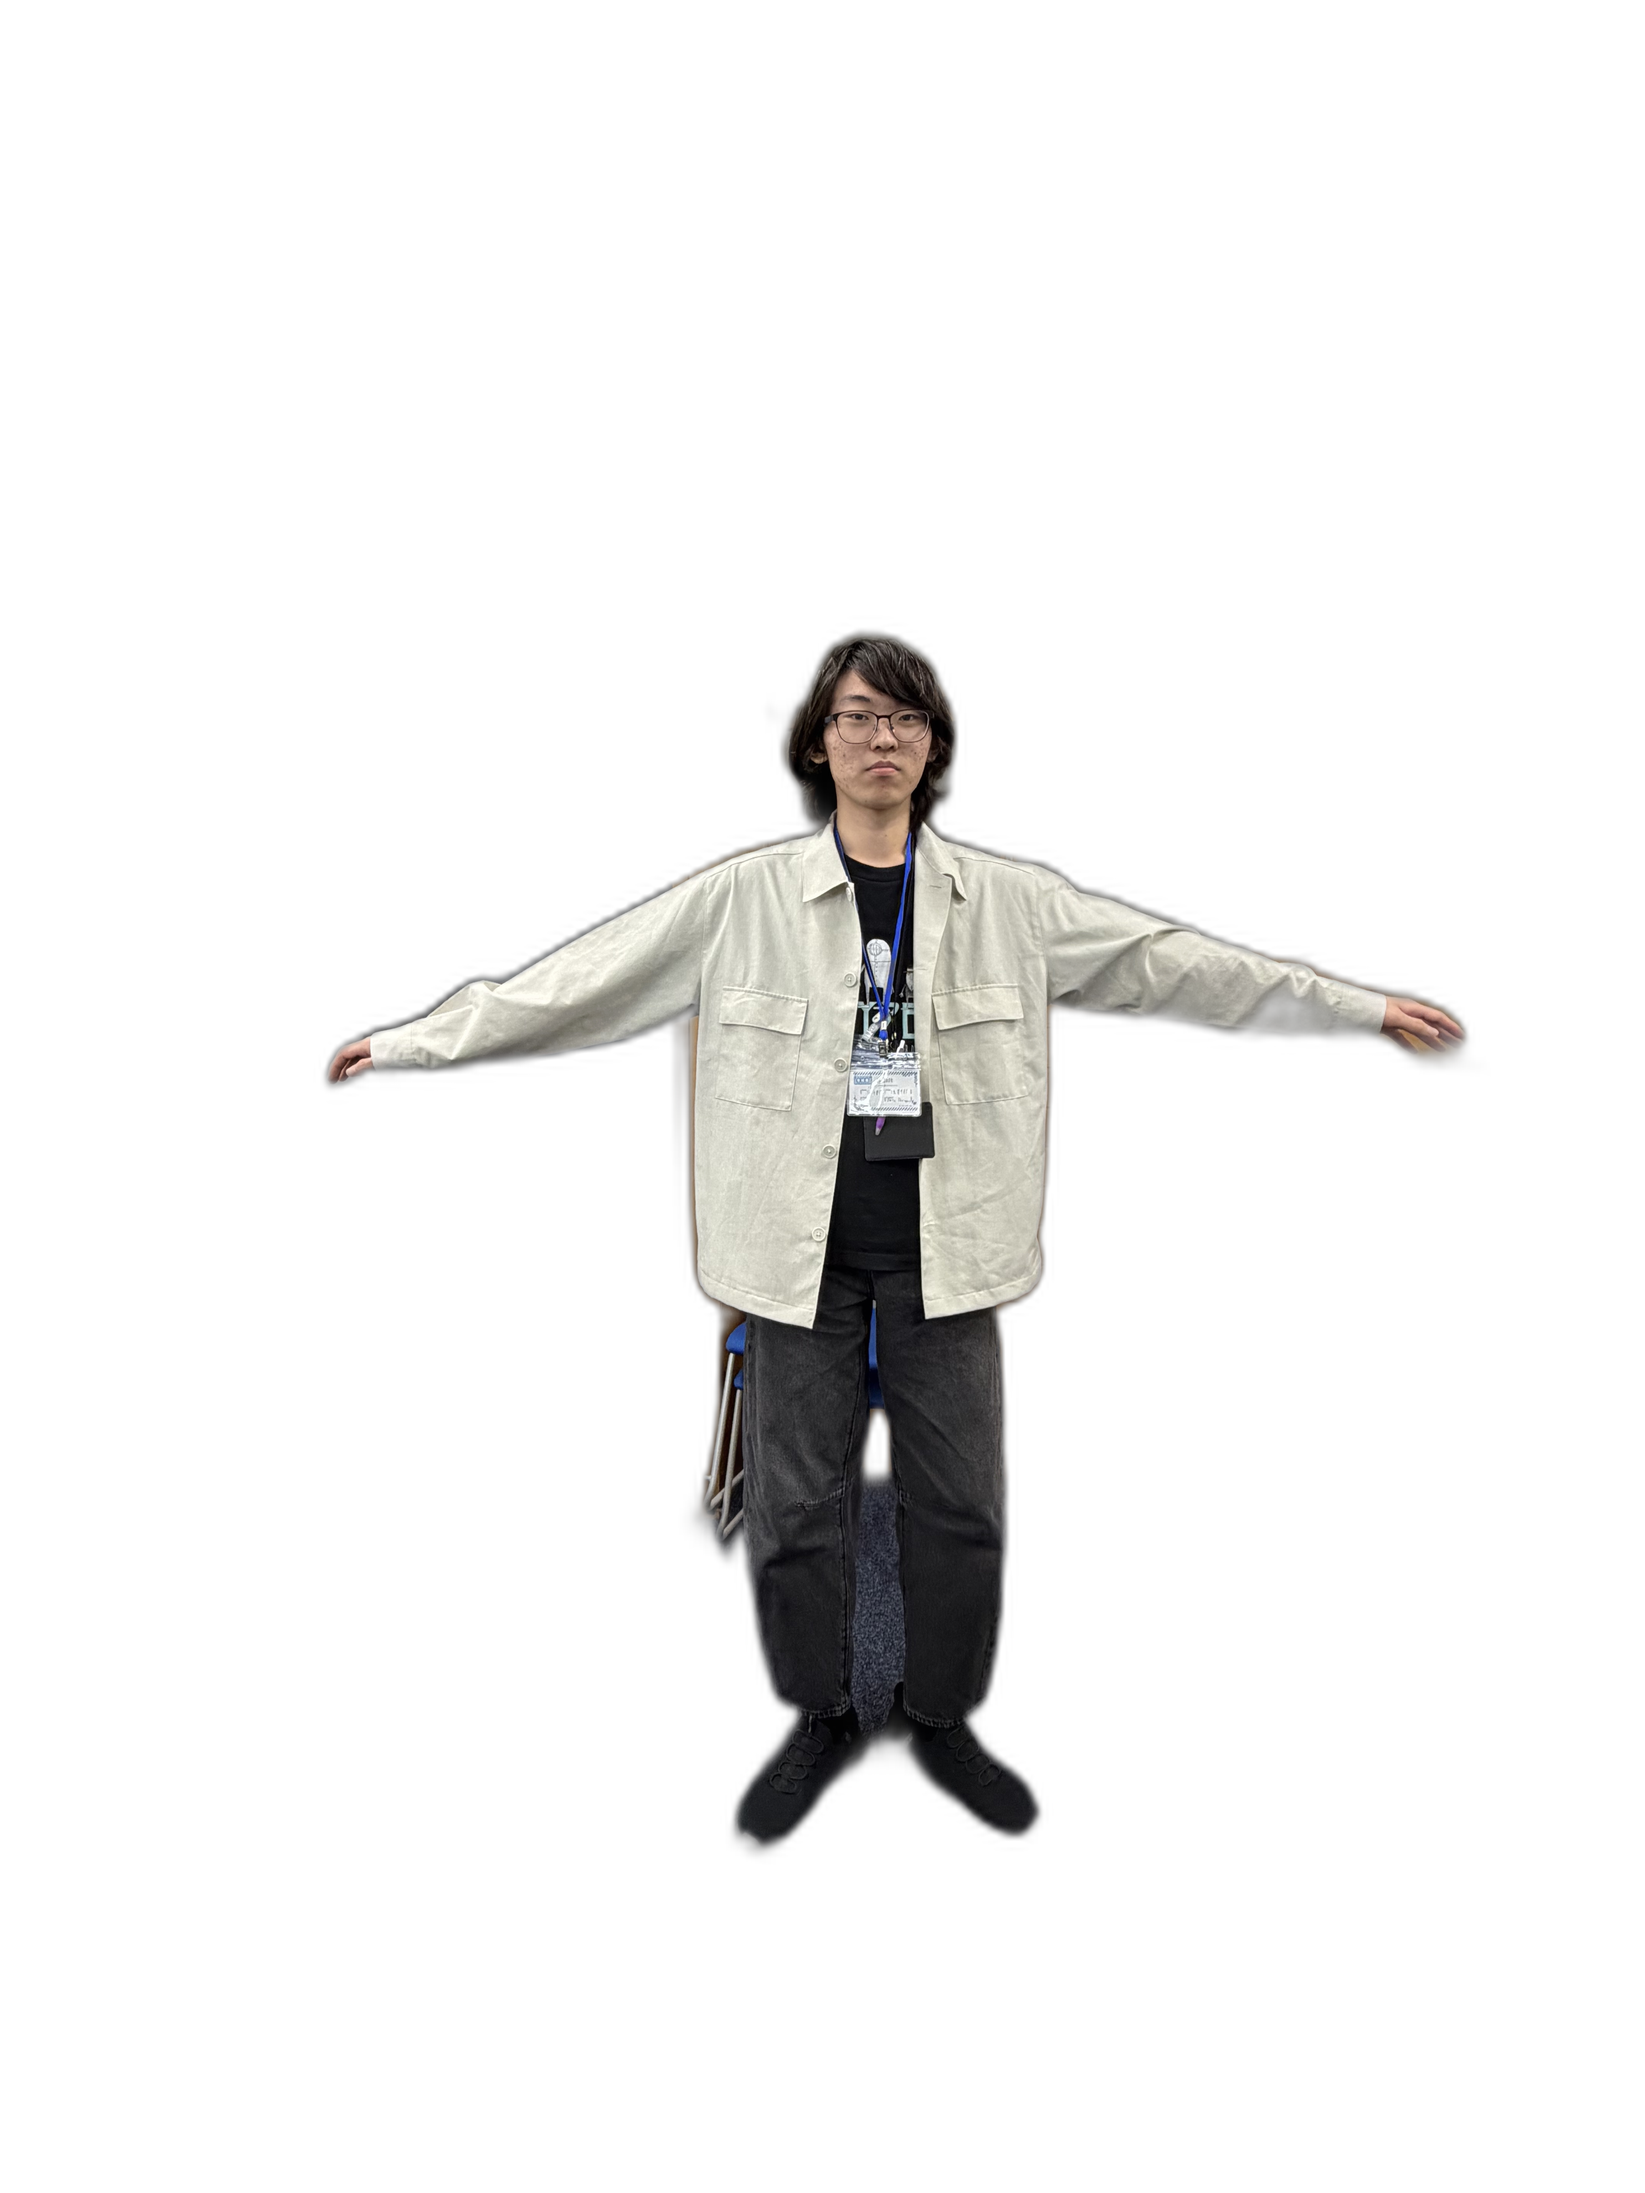
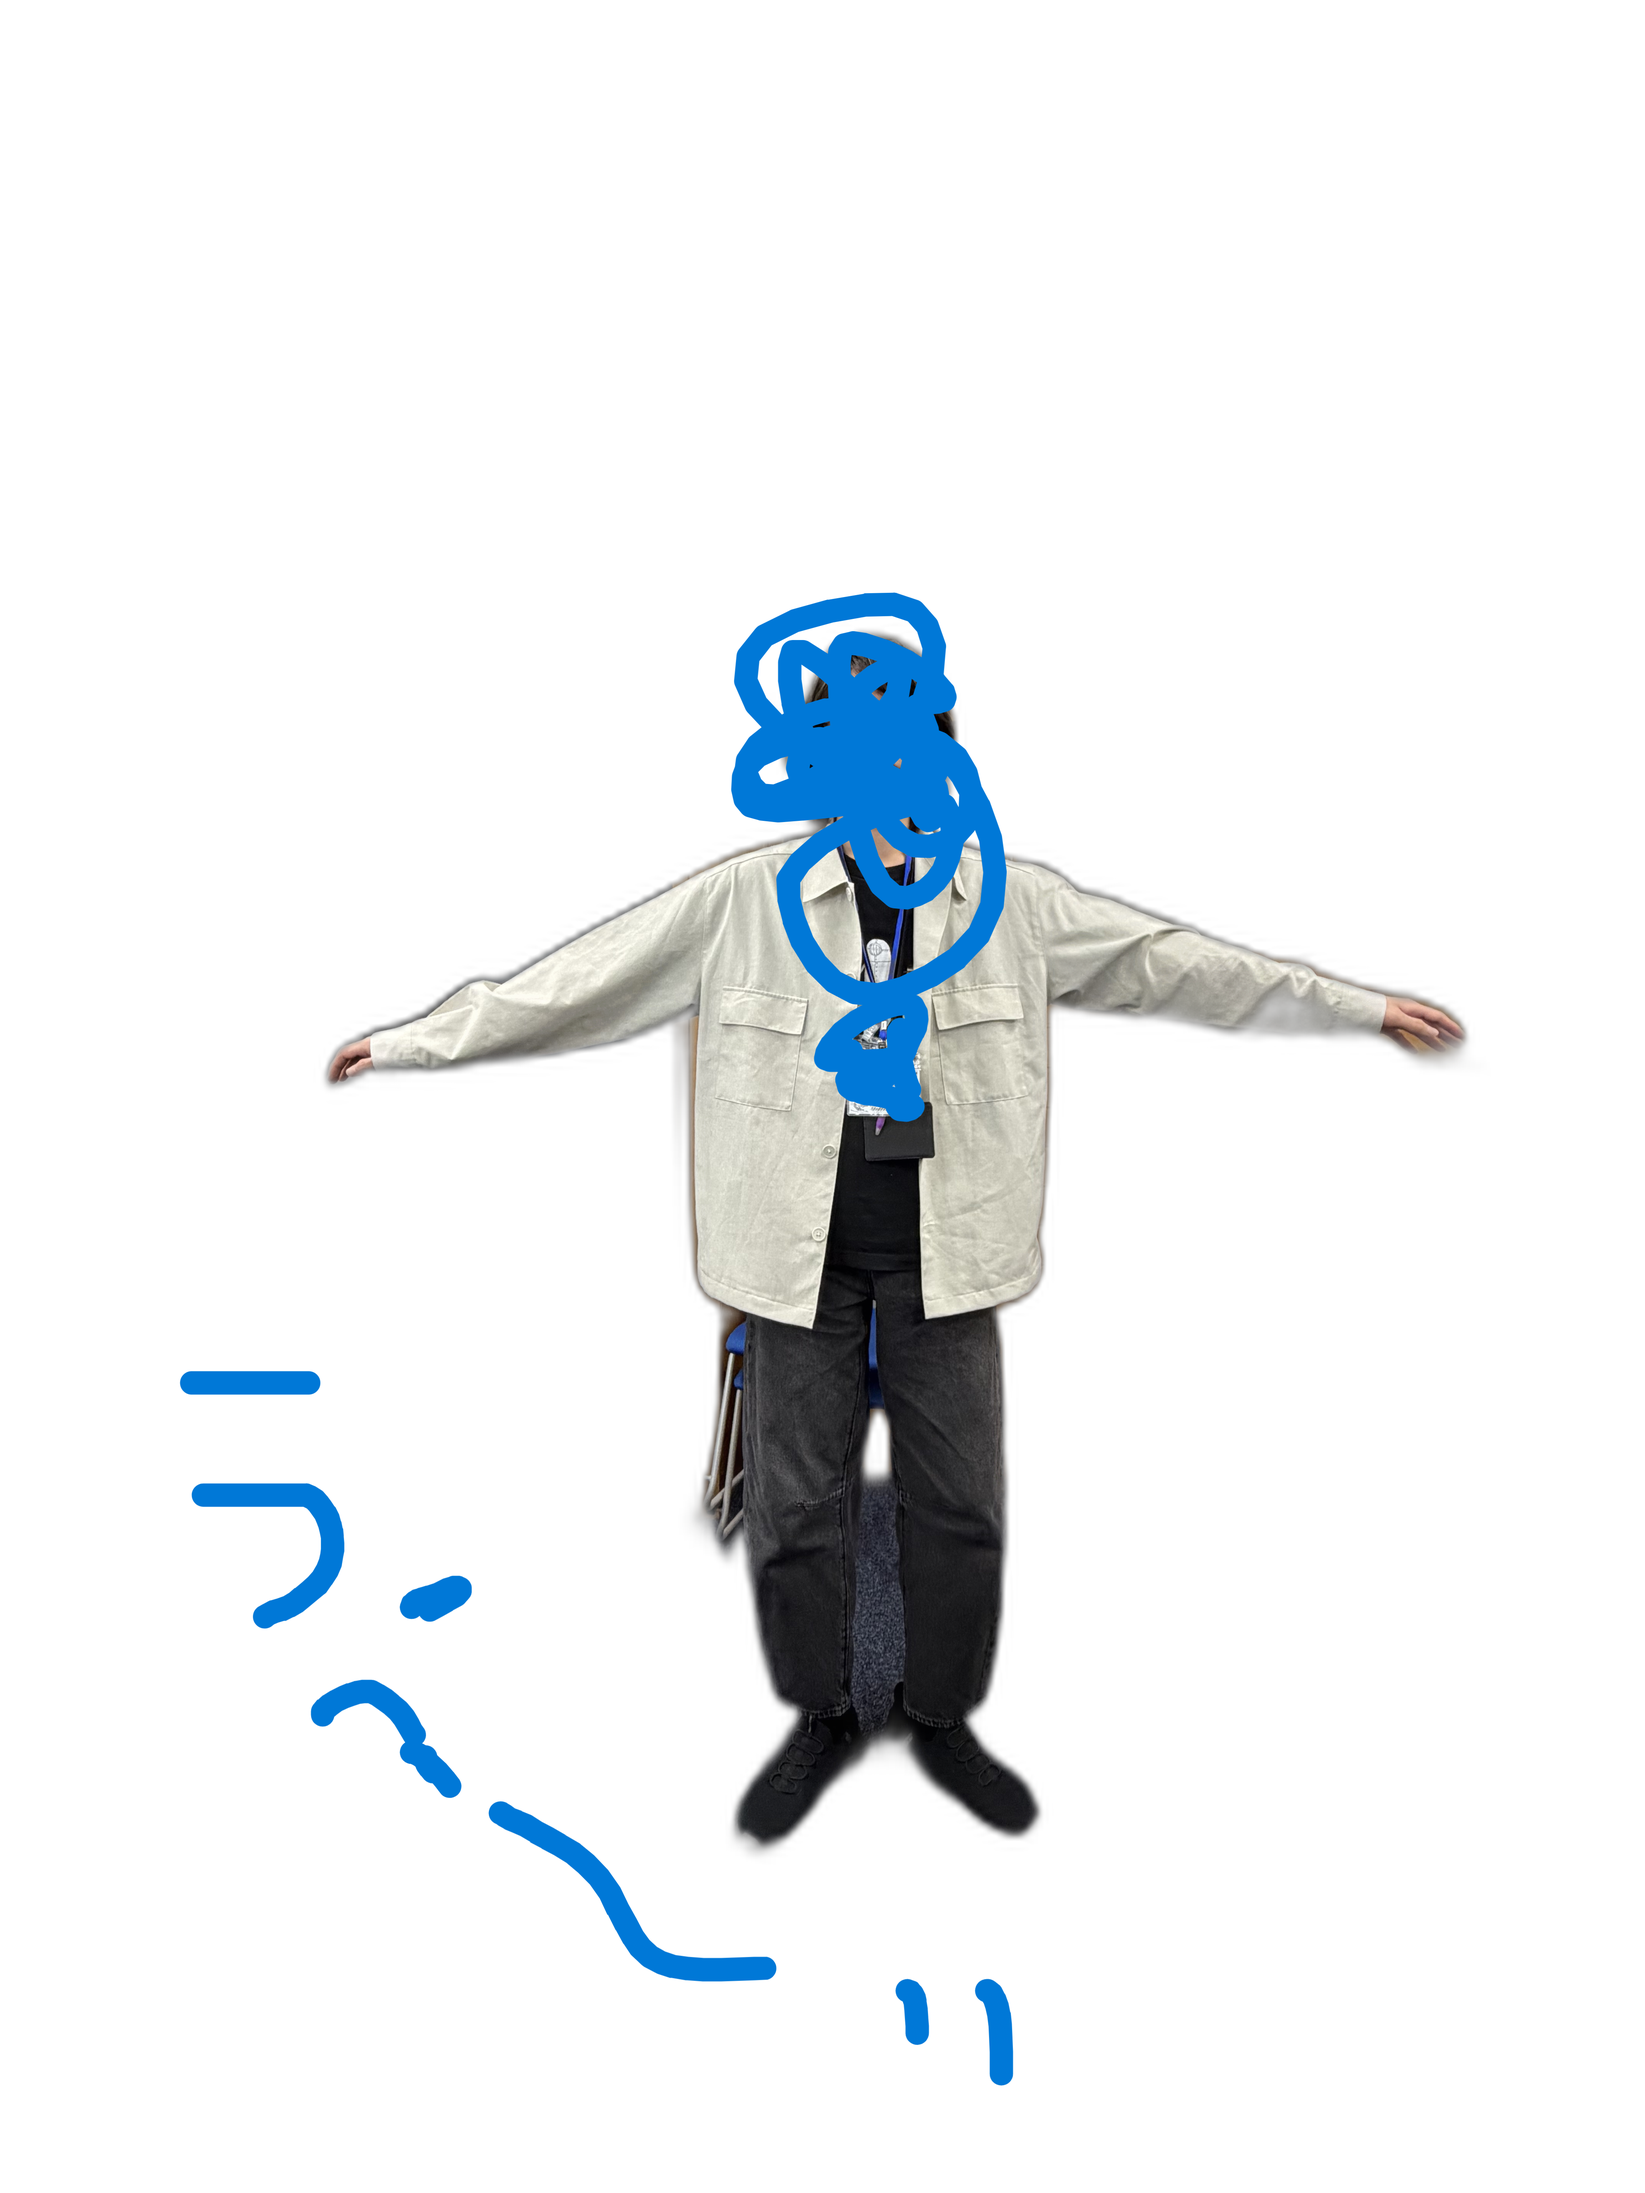
色抽出途中と画像をパブリック向けにしました

diff --git a/image_process/image_Processing.py b/image_process/image_Processing.py
@@ -52,6 +52,40 @@ def hue_to_attribute(hue: float) -> str:
     return "無"
 
 
+def _landmark_to_pixel(landmark, width: int, height: int):
+    return int(landmark.x * width), int(landmark.y * height)
+
+
+def extract_clothing_color(img_bgr, pose_landmarks):
+    """肩・腰ランドマークから服の領域を切り出して色を推定する"""
+    h, w = img_bgr.shape[:2]
+    left_shoulder = _landmark_to_pixel(pose_landmarks['left_shoulder'], w, h)
+    right_shoulder = _landmark_to_pixel(pose_landmarks['right_shoulder'], w, h)
+    left_hip = _landmark_to_pixel(pose_landmarks['left_hip'], w, h)
+    right_hip = _landmark_to_pixel(pose_landmarks['right_hip'], w, h)
+
+    torso_polygon = np.array([
+        left_shoulder,
+        right_shoulder,
+        right_hip,
+        left_hip,
+    ], dtype=np.int32)
+    mask = np.zeros((h, w), dtype=np.uint8)
+    cv2.fillPoly(mask, [torso_polygon], 255)
+
+    hsv = cv2.cvtColor(img_bgr, cv2.COLOR_BGR2HSV)
+    torso_pixels = hsv[mask == 255]
+    if torso_pixels.size == 0:
+        raise ValueError("服領域が抽出できませんでした。ランドマーク検出結果を確認してください。")
+
+    # 服の色抽出: マスク領域の平均HSVを使う
+    avg_hsv = torso_pixels.mean(axis=0)
+    hue, sat, val = float(avg_hsv[0]), float(avg_hsv[1]), float(avg_hsv[2])
+    attribute = hue_to_attribute(hue)
+    print(f"[OK] 服色抽出: H={hue:.1f} S={sat:.1f} V={val:.1f} -> 属性={attribute}")
+    return hue, sat, val, attribute
+
+
 def remove_background(image_path: Path, out_path: Path) -> Image.Image:
     """rembgで背景除去し、透過PNGとして保存"""
     img = Image.open(image_path).convert("RGB")
@@ -111,7 +145,16 @@ def estimate_physique(image_path: Path):
         f"[OK] 体格推定: 肩幅/身長比={shoulder_height_ratio:.3f}, "
         f"胴体矩形=({x1},{y1})-({x2},{y2})"
     )
-    return shoulder_height_ratio, (x1, y1, x2, y2), img_bgr
+    pose_landmarks = {
+        'nose': nose,
+        'left_shoulder': l_sh,
+        'right_shoulder': r_sh,
+        'left_hip': l_hip,
+        'right_hip': r_hip,
+        'left_ankle': l_ank,
+        'right_ankle': r_ank,
+    }
+    return shoulder_height_ratio, (x1, y1, x2, y2), img_bgr, pose_landmarks
 
 
 def extract_torso_color(img_bgr, torso_box):
@@ -128,6 +171,36 @@ def extract_torso_color(img_bgr, torso_box):
 
     attribute = hue_to_attribute(hue)
     print(f"[OK] 色抽出: H={hue:.1f} S={sat:.1f} V={val:.1f} -> 属性={attribute}")
+    return hue, sat, val, attribute
+
+
+def extract_clothing_color(img_bgr, pose_landmarks):
+    """肩・腰ランドマークから服の領域を切り出して色を推定する"""
+    h, w = img_bgr.shape[:2]
+    left_shoulder = _landmark_to_pixel(pose_landmarks['left_shoulder'], w, h)
+    right_shoulder = _landmark_to_pixel(pose_landmarks['right_shoulder'], w, h)
+    left_hip = _landmark_to_pixel(pose_landmarks['left_hip'], w, h)
+    right_hip = _landmark_to_pixel(pose_landmarks['right_hip'], w, h)
+
+    torso_polygon = np.array([
+        left_shoulder,
+        right_shoulder,
+        right_hip,
+        left_hip,
+    ], dtype=np.int32)
+    mask = np.zeros((h, w), dtype=np.uint8)
+    cv2.fillPoly(mask, [torso_polygon], 255)
+
+    hsv = cv2.cvtColor(img_bgr, cv2.COLOR_BGR2HSV)
+    torso_pixels = hsv[mask == 255]
+    if torso_pixels.size == 0:
+        raise ValueError("服領域が抽出できませんでした。ランドマーク検出結果を確認してください。")
+
+    avg_hsv = torso_pixels.mean(axis=0)
+    hue, sat, val = float(avg_hsv[0]), float(avg_hsv[1]), float(avg_hsv[2])
+
+    attribute = hue_to_attribute(hue)
+    print(f"[OK] 服色抽出: H={hue:.1f} S={sat:.1f} V={val:.1f} -> 属性={attribute}")
     return hue, sat, val, attribute
 
 
@@ -200,10 +273,10 @@ def process_image(image_path: Path, texture_out: Path):
     remove_background(image_path, texture_out)
 
     # 体格推定
-    shoulder_height_ratio, torso_box, img_bgr = estimate_physique(image_path)
+    shoulder_height_ratio, torso_box, img_bgr, pose_landmarks = estimate_physique(image_path)
 
-    # 色抽出
-    hue, sat, val, attribute = extract_torso_color(img_bgr, torso_box)
+    # 服の色抽出
+    hue, sat, val, attribute = extract_clothing_color(img_bgr, pose_landmarks)
 
     return {
         "texture_path": texture_out,

diff --git a/image_process/color_extraction.py b/image_process/color_extraction.py
@@ -1,0 +1,120 @@
+"""Extract clothing color from a generated person image.
+
+Usage:
+  python color_extraction.py IMG_4411_sword.png
+
+This script detects the person with MediaPipe Pose, masks the torso region
+between shoulders and hips, and computes the average clothing color.
+"""
+
+import json
+import sys
+from pathlib import Path
+
+import cv2
+import mediapipe as mp
+import numpy as np
+
+HUE_ATTRIBUTE_TABLE = [
+    (0, 10, "炎"),
+    (10, 25, "土"),
+    (25, 35, "光"),
+    (35, 85, "森"),
+    (85, 130, "氷"),
+    (130, 160, "闇"),
+    (160, 180, "炎"),
+]
+
+
+def hue_to_attribute(hue: float) -> str:
+    for lo, hi, label in HUE_ATTRIBUTE_TABLE:
+        if lo <= hue < hi:
+            return label
+    return "無"
+
+
+def landmark_to_pixel(landmark, width: int, height: int):
+    return int(landmark.x * width), int(landmark.y * height)
+
+
+def get_pose_landmarks(image_bgr):
+    image_rgb = cv2.cvtColor(image_bgr, cv2.COLOR_BGR2RGB)
+    with mp.solutions.pose.Pose(static_image_mode=True, model_complexity=1) as pose:
+        results = pose.process(image_rgb)
+    if not results.pose_landmarks:
+        raise ValueError("人物のランドマークを検出できませんでした。全身が写っているか確認してください。")
+    return results.pose_landmarks.landmark
+
+
+def create_torso_mask(image_bgr, landmarks):
+    h, w = image_bgr.shape[:2]
+    left_shoulder = landmark_to_pixel(landmarks[11], w, h)
+    right_shoulder = landmark_to_pixel(landmarks[12], w, h)
+    left_hip = landmark_to_pixel(landmarks[23], w, h)
+    right_hip = landmark_to_pixel(landmarks[24], w, h)
+
+    polygon = np.array([
+        left_shoulder,
+        right_shoulder,
+        right_hip,
+        left_hip,
+    ], dtype=np.int32)
+    mask = np.zeros((h, w), dtype=np.uint8)
+    cv2.fillPoly(mask, [polygon], 255)
+    return mask
+
+
+def extract_clothing_color(image_path: Path):
+    if not image_path.exists():
+        raise FileNotFoundError(f"画像が見つかりません: {image_path}")
+
+    img = cv2.imread(str(image_path), cv2.IMREAD_UNCHANGED)
+    if img is None:
+        raise FileNotFoundError(f"画像が読み込めません: {image_path}")
+
+    if img.ndim == 2:
+        raise ValueError("カラー画像を指定してください。")
+
+    bgr = img[:, :, :3] if img.shape[2] == 4 else img
+    landmarks = get_pose_landmarks(bgr)
+    mask = create_torso_mask(bgr, landmarks)
+
+    hsv = cv2.cvtColor(bgr, cv2.COLOR_BGR2HSV)
+    torso_pixels = hsv[mask == 255]
+    if torso_pixels.size == 0:
+        raise ValueError("服領域の色を抽出できませんでした。マスク領域を確認してください。")
+
+    avg_hsv = torso_pixels.mean(axis=0)
+    hue, sat, val = float(avg_hsv[0]), float(avg_hsv[1]), float(avg_hsv[2])
+
+    avg_pixel = np.uint8([[[hue, sat, val]]])
+    avg_bgr = cv2.cvtColor(avg_pixel, cv2.COLOR_HSV2BGR)[0, 0]
+    avg_rgb = {"r": int(avg_bgr[2]), "g": int(avg_bgr[1]), "b": int(avg_bgr[0])}
+
+    return {
+        "image": str(image_path.name),
+        "hue": round(hue, 1),
+        "saturation": round(sat, 1),
+        "value": round(val, 1),
+        "rgb": avg_rgb,
+        "attribute": hue_to_attribute(hue),
+    }
+
+
+def main():
+    if len(sys.argv) != 2:
+        print("使い方: python color_extraction.py <IMG_4411_sword.png>")
+        sys.exit(1)
+
+    image_path = Path(sys.argv[1])
+    result = extract_clothing_color(image_path)
+    result_path = image_path.with_name(image_path.stem + "_clothing_color.json")
+    with result_path.open("w", encoding="utf-8") as f:
+        json.dump(result, f, ensure_ascii=False, indent=2)
+
+    print(f"[OK] 服の色を抽出しました: {result_path}")
+    print(json.dumps(result, ensure_ascii=False, indent=2))
+
+
+if __name__ == '__main__':
+    main()
